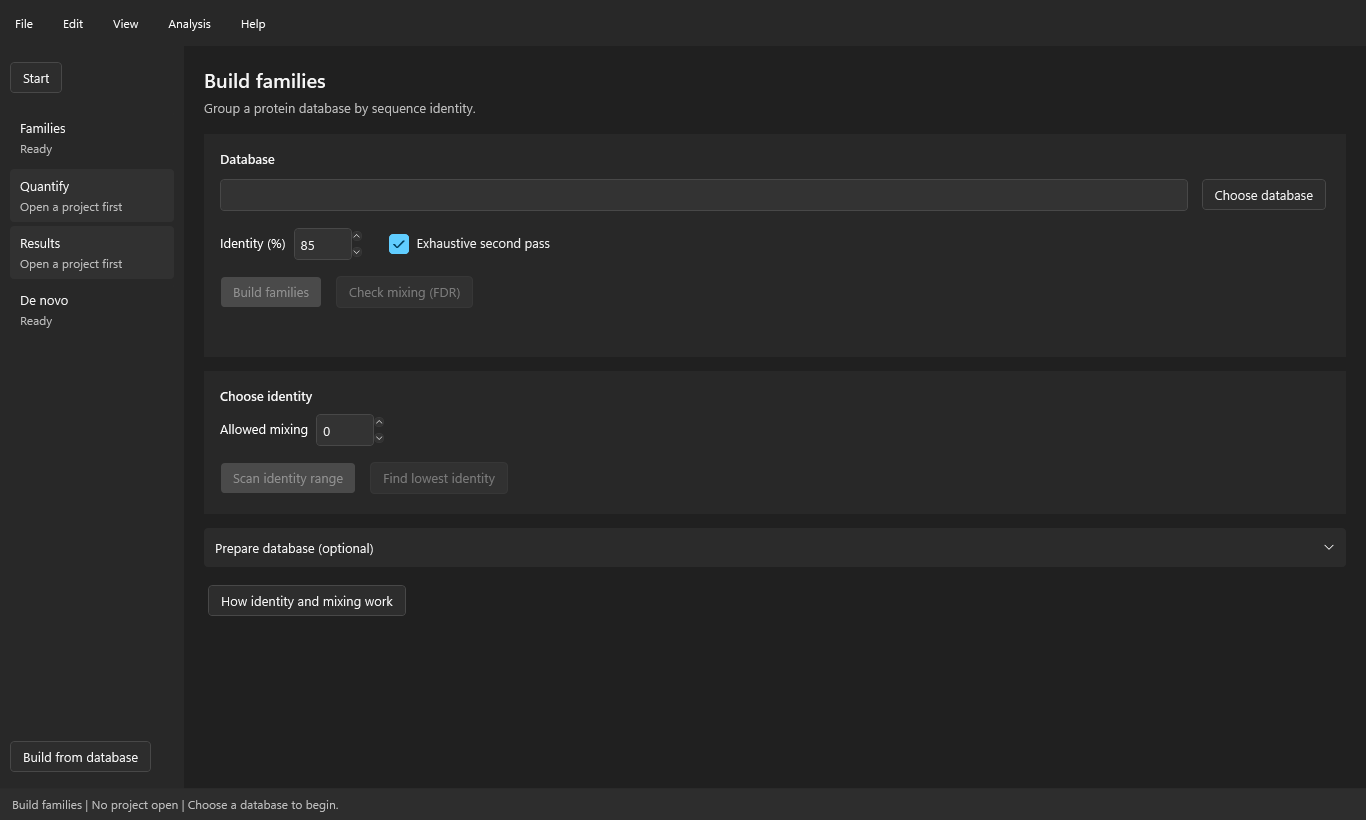
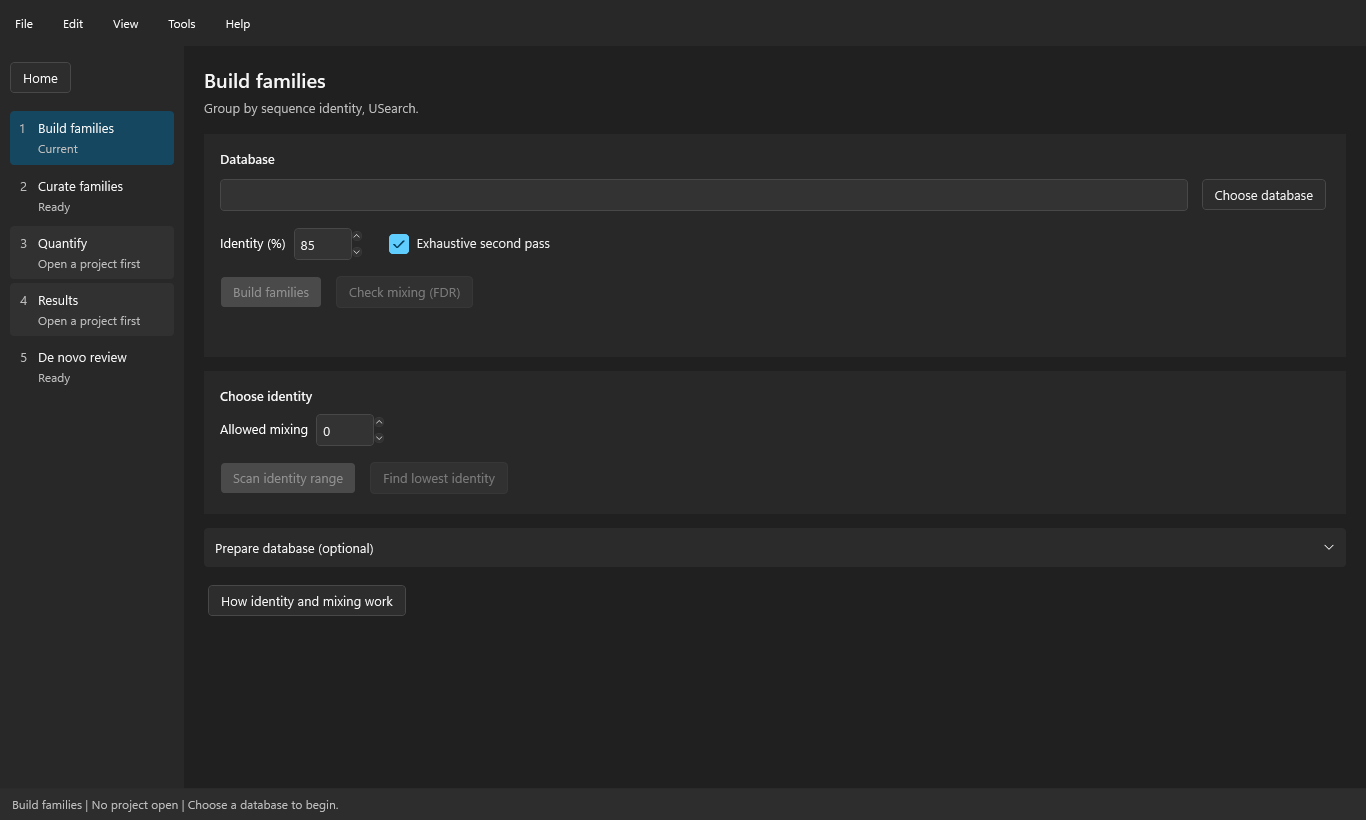
Z8b Describe FamilyQuant 2.1.8 and retain earlier highlights
The README reads 2.1.8: Home with five numbered steps in Ana's order and one
name per thing (Build families, Curate families with Group by evidence and
Group by words, Quantify, Results, De novo review; Analysis becomes Tools),
the Curate families screen layout, the same-scan rule and the De novo in
FamilyQuant Help page. 2.1.7 joins the earlier highlights. A new synthetic
dark Home capture and a refreshed Build families capture; the step-by-step
and troubleshooting text use the new names.

diff --git a/README.md b/README.md
@@ -5,34 +5,38 @@
   </picture>
 </p>
 
-<h1 align="center">FamilyQuant 2.1.7</h1>
+<h1 align="center">FamilyQuant 2.1.8</h1>
 
 <p align="center">Protein-family composition from your own evidence.</p>
 
 FamilyQuant is a Windows desktop application for exploring protein-family composition from database identifications and de novo peptide evidence. It lets you curate families with your own panel and quantify their contributions across runs. It writes a report from the project's results, with a Word document, a workbook and an interactive page.
 
-[Download FamilyQuant 2.1.7](https://github.com/pcarvalho75/FamilyQuant2-releases/releases/latest) · [Step-by-step guide](#step-by-step) · [Troubleshooting](#troubleshooting)
+[Download FamilyQuant 2.1.8](https://github.com/pcarvalho75/FamilyQuant2-releases/releases/latest) · [Step-by-step guide](#step-by-step) · [Troubleshooting](#troubleshooting)
 
 
-## What's new in 2.1.7
+## What's new in 2.1.8
 
-- **Fetch evidence keeps its work.** Protein evidence is kept when the reference panel cannot finish. Fetch evidence waits and retries when UniProt is busy and resumes from the last finished batch for the same query and release. It names refused families and does not use an incomplete panel as complete. Choose **Retry panel** on the Families screen to finish it.
-- **Updates reopen FamilyQuant.** After a successful **Install update**, the app reopens and shows its updated version once. Setup compares versions: if a newer version is installed, it offers **Open FamilyQuant**; if the same version is installed, it also offers **Repair**. Installing an older version needs confirmation. Silent setup refuses downgrades. Setup has its own download-badge icon.
-- **Close a project.** **File > Close project** uses the usual Save, Discard or Cancel choice and returns to Home when the project closes.
+- **Home shows five numbered steps.** In order: **1 Build families** (group by sequence identity, USearch), **2 Curate families** (part a **Group by evidence**, part b **Group by words**), **3 Quantify** and **4 Results**, then the optional **5 De novo review**. Each step shows its state and one button, and the sidebar numbers the same steps (Alt+1 to Alt+5; Alt+0 for Home). **Open project** and **Recent projects** stay below.
+- **One name per thing.** Each screen keeps the same name in the sidebar, menus, Help and messages: **File > Build families** (formerly New from database), **Curate families** (formerly Families), **Quantify** (formerly Compute full XIC), **Results** and **De novo review** (formerly De novo evidence). The Analysis menu is now **Tools** and keeps the extra tools (**Spectrum comparison**, **Clustering diagnostic**, **Reannotate SEPro**); Quantify, Results and De novo review are also in **View**. With no project open, **Curate families** asks you to open one or to build families first.
+- **Curate families screen layout.** Both grids have a title and their headers line up, **All proteins** sits above the protein grid, family numbers are centred, and the **USearch ID** column is shown by default.
+- **Same-scan rule.** When PatternLab and a de novo call give different sequences for the same scan and precursor, the PatternLab identification wins and the de novo call receives no credit. **PatternLab wins conflicting precursors** is on by default in Quantify, and the report methods state the rule in use. Stored results change only when you run Quantify again.
+- **De novo in FamilyQuant.** A new Help page explains how Quantify uses de novo calls and why De novo review is optional.
+
+Earlier, **2.1.7** kept Fetch evidence's work: protein evidence is kept when the reference panel cannot finish, Fetch evidence waits and retries when UniProt is busy, resumes from the last finished batch for the same query and release, and names refused families; **Retry panel** finishes an incomplete panel. After a successful **Install update**, FamilyQuant reopens and shows its updated version once, and Setup compares versions before installing. **File > Close project** returns to Home after the usual Save, Discard or Cancel choice.
 
 Earlier, **2.1.6** cleaned up **Recent projects**: files that are unavailable are hidden and appear again when reachable. To remove an entry, right-click it and choose **Remove from recent projects**, use its small **x**, or select it and press **Delete**. Removing an entry leaves the project file untouched.
 
-Earlier, **2.1.5** introduced the Families screen's guided **Grouping** panel: **Fetch evidence**, **Group by evidence**, **Fetch family world** and **Compute full XIC**. It highlights the next step and shows each step's status. **Group by evidence** offers to download evidence first when the project has none, **Review grouping** explains why a scope cannot be suggested, and the **Read grouping task** screen counts the taxa it asks UniProt about.
+Earlier, **2.1.5** introduced the guided **Grouping** steps, now part a of **Curate families**: **Fetch evidence**, **Group by evidence**, **Fetch family world** and **Quantify**. They highlight the next step and show each step's status. **Group by evidence** offers to download evidence first when the project has none, **Review grouping** explains why a scope cannot be suggested, and the **Read grouping task** screen counts the taxa it asks UniProt about.
 
-Earlier, **2.1.4** added database entries to the family dot plot's X, Y and Size choices. When the required measures are available, it opens with database entries against mean ion current share. To see this in an existing project, use **File > Export report** to create a fresh HTML report. No Compute is needed, and existing calculated numbers do not change.
+Earlier, **2.1.4** added database entries to the family dot plot's X, Y and Size choices. When the required measures are available, it opens with database entries against mean ion current share. To see this in an existing project, use **File > Export report** to create a fresh HTML report. Quantify does not need to run again, and existing calculated numbers do not change.
 
 Earlier, **2.1.3** introduced the per-user Setup.exe installer, which adds a Start menu shortcut and an uninstall entry. FamilyQuant checks for updates at start-up and offers **Install update** in a banner when a new version is available; **Help > Install update** provides the same action. To turn the start-up check off, clear **Help > Check for updates at startup**. The ZIP remains available.
 
 Earlier highlights include the **2.1.2 interactive HTML report**, which accompanies the Word report and workbook and includes a configurable family dot plot with linked selection and details on demand. Other 2.1.x improvements include:
 
-- **Faster Compute:** a faster search engine reduces work on the same inputs; the time depends on the project and computer.
+- **Faster Quantify:** a faster search engine reduces work on the same inputs; the time depends on the project and computer.
 - **Panel-family totals:** when your panel combines families, the headline presents their combined panel-family total while the supplement retains the original detail.
-- **Score tier, on by default:** a de novo peptide is credited only to the proteins tied at its best score; an identified peptide is credited to the proteins that contain it. Opening an existing project preserves its stored results; the rule applies when you run Compute again.
+- **Score tier, on by default:** a de novo peptide is credited only to the proteins tied at its best score; an identified peptide is credited to the proteins that contain it. Opening an existing project preserves its stored results; the rule applies when you run Quantify again.
 - **Clearer reports and progress:** program-written findings, saved report details, explanations for unavailable values, counted progress and reusable search results.
 
 ## Explore the report
@@ -61,9 +65,9 @@ All screenshots on this page use synthetic data.
 
 Use 64-bit Windows 10 or 11. FamilyQuant 2 can sit beside FamilyQuant 1.5.
 
-Install FamilyQuant 2.1.7 for your Windows user:
+Install FamilyQuant 2.1.8 for your Windows user:
 
-1. Open the [latest release](https://github.com/pcarvalho75/FamilyQuant2-releases/releases/latest), check that it is version 2.1.7, and download its `FamilyQuant2-<version>-Setup.exe` installer.
+1. Open the [latest release](https://github.com/pcarvalho75/FamilyQuant2-releases/releases/latest), check that it is version 2.1.8, and download its `FamilyQuant2-<version>-Setup.exe` installer.
 2. Run the installer. It installs for the current user without administrator privileges in `%LOCALAPPDATA%\Programs\FamilyQuant2` and creates a Start menu shortcut.
 3. If Windows shows **Windows protected your PC**, choose **More info > Run anyway**. The installer is unsigned.
 
@@ -75,9 +79,13 @@ If you prefer the ZIP, download it from the release page, extract **the entire Z
 
 ## Step-by-step
 
-### 1. Open or create families
+FamilyQuant opens on **Home**, which lists the five steps in order with each step's state and one button. Steps 1 to 4 run in order; step 5, **De novo review**, is optional because Quantify reads the de novo folders itself. The sidebar shows the same numbered steps on every screen.
 
-Choose **File > Open** to open an existing FamilyQuant project (`.fqproj`) or Family Cluster File (`.fcf`). To start from a protein database instead, choose **File > New from database**, select a FASTA or target-decoy `.T-R` file, set the identity and choose **Build families**. Open the resulting `.fcf` with **File > Open**.
+![Synthetic dark Home with the five numbered steps, an open project and its recent projects](docs/images/app-home.png)
+
+### 1. Open or build families
+
+Choose **File > Open** to open an existing FamilyQuant project (`.fqproj`) or Family Cluster File (`.fcf`). To start from a protein database instead, choose **1 Build families** on Home or the sidebar, or **File > Build families**, select a FASTA or target-decoy `.T-R` file, set the identity and choose **Build families**. Open the resulting `.fcf` with **File > Open**.
 
 Use **File > Save** to keep the project, its curation and computed results together. Use **Save as** when you want a separate copy. Choose **File > Close project** to return to Home, with Save, Discard or Cancel for unsaved changes.
 
@@ -89,30 +97,30 @@ Choose **File > Import family panel** and select your spreadsheet. Choose the sh
 
 ![Synthetic panel editor showing column and decision mapping](docs/images/app-panel.png)
 
-### 3. Follow the Grouping steps
+### 3. Curate families
 
-Open **View > Families**. The **Grouping** panel highlights the next step and shows the status of each step. Follow its numbered order:
+Open **2 Curate families** on Home or the sidebar, or **View > Curate families**. Part a, **Group by evidence**, is the **Grouping** panel: it highlights the next step and shows the status of each step. Follow its numbered order:
 
 1. **Fetch evidence.** Download the UniProt evidence used to review the project's proteins.
 2. **Group by evidence.** Review or edit the scope and choose **Update proposal**. Review ambiguous **Panel links**, confirm your choices with **Use link choices**, inspect the updated protein selections and choose **Apply grouping**. You can add a note to a link choice, and the grouping can be undone in the session. If evidence is missing, choose **Download and continue** when offered; the download finishes before the review opens. If no scope can be suggested, read the explanation and fetch evidence or enter a scope.
 3. **Fetch family world.** After confirming the grouping scope, download the reviewed family references used by quantitation. If the scope is missing, follow the offer to open **Group by evidence** first.
-4. **Compute full XIC.** Open Quantify, add the matching inputs and compute as described below.
+4. **Quantify.** Open Quantify, add the matching inputs and compute as described below.
 
-The **Read grouping task** screen counts the taxa it asks UniProt about and needs an internet connection.
+The **Read grouping task** screen counts the taxa it asks UniProt about and needs an internet connection. Part b, **Group by words**, merges families by a keyword list (**Group by keywords**) or by their description words (**Recluster by words**); both are reviewed before they apply, and **Undo** reverses them.
 
 ![Synthetic dark Families screen with the four numbered Grouping steps, next-step highlight and status](docs/images/app-families.png)
 
 ### 4. Add inputs and compute
 
-Choose **Compute full XIC** in the Grouping panel, or **Analysis > Compute full XIC**. In Quantify, set **RAW folder** to the matching `.raw` acquisitions and **Identifications (.sepr2)** to the package from the same runs. **De novo folder (optional)** can contain PEAKS `*.denovoOnly.csv` or `*.denovo.csv` files and DeepNovo `*.deepnovo.csv` files; each selected source has its own score filter. **Search settings (optional)** can point to a `.params` file; if left empty, one unambiguous adjacent file may be selected automatically.
+Choose **Quantify** in the Grouping panel, **3 Quantify** on Home or the sidebar, or **View > Quantify**. In Quantify, set **RAW folder** to the matching `.raw` acquisitions and **Identifications (.sepr2)** to the package from the same runs. **De novo folder (optional)** can contain PEAKS `*.denovoOnly.csv` or `*.denovo.csv` files and DeepNovo `*.deepnovo.csv` files; each selected source has its own score filter. **Search settings (optional)** can point to a `.params` file; if left empty, one unambiguous adjacent file may be selected automatically.
 
-Review the available settings and choose **Compute full XIC**. Progress shows the current step and elapsed time; **Operation log** shows recorded steps and **Cancel** requests cancellation. Save the project after a successful computation.
+Review the available settings, including **PatternLab wins conflicting precursors** (on by default), and choose **Quantify**. Progress shows the current step and elapsed time; **Operation log** shows recorded steps and **Cancel** requests cancellation. Save the project after a successful computation.
 
 ![Synthetic Quantify screen with input and compute controls](docs/images/app-quantify.png)
 
 ### 5. Read the results
 
-Choose **Analysis > Results** to explore the stored quantitation. Return to **View > Families** to inspect family assignments and the quantitation controls. Read each chart's labels and denominator: a family with **no peptide observed** in a completed study is not proof that the family is absent. Unavailable values are shown as unavailable rather than treated as zero.
+Choose **4 Results** on Home or the sidebar, or **View > Results**, to explore the stored quantitation. Return to **Curate families** to inspect family assignments and the quantitation controls. Read each chart's labels and denominator: a family with **no peptide observed** in a completed study is not proof that the family is absent. Unavailable values are shown as unavailable rather than treated as zero.
 
 ![Synthetic Results screen with stored summary and Database gap](docs/images/app-results.png)
 
@@ -149,7 +157,7 @@ draft and its list of recognized numbers not found in the input tables; a value 
 
 ## Troubleshooting
 
-- **Export report is unavailable or says Results are missing.** Open a computed project and wait for its family attribution to finish. If the project has no stored Results, run **Analysis > Compute full XIC** and save it first.
+- **Export report is unavailable or says Results are missing.** Open a computed project and wait for its family attribution to finish. If the project has no stored Results, run **Quantify** and save it first.
 - **An input cannot be found.** Check that the RAW folder exists and contains the acquisitions, and that the `.sepr2` package matches those runs. The optional de novo folder is searched recursively for the selected source types.
 - **A family shows no peptide observed.** This means no peptide reached that family in the completed study; it is not evidence that the family is absent. Check the panel, assignments, input coverage and the status shown for unavailable studies.
 - **A value or panel link needs explanation.** Open **Help > How to read these numbers** for the current screen, or **Help > What do I do first?** for the full workflow. Review the panel links and the audit before applying changes.
